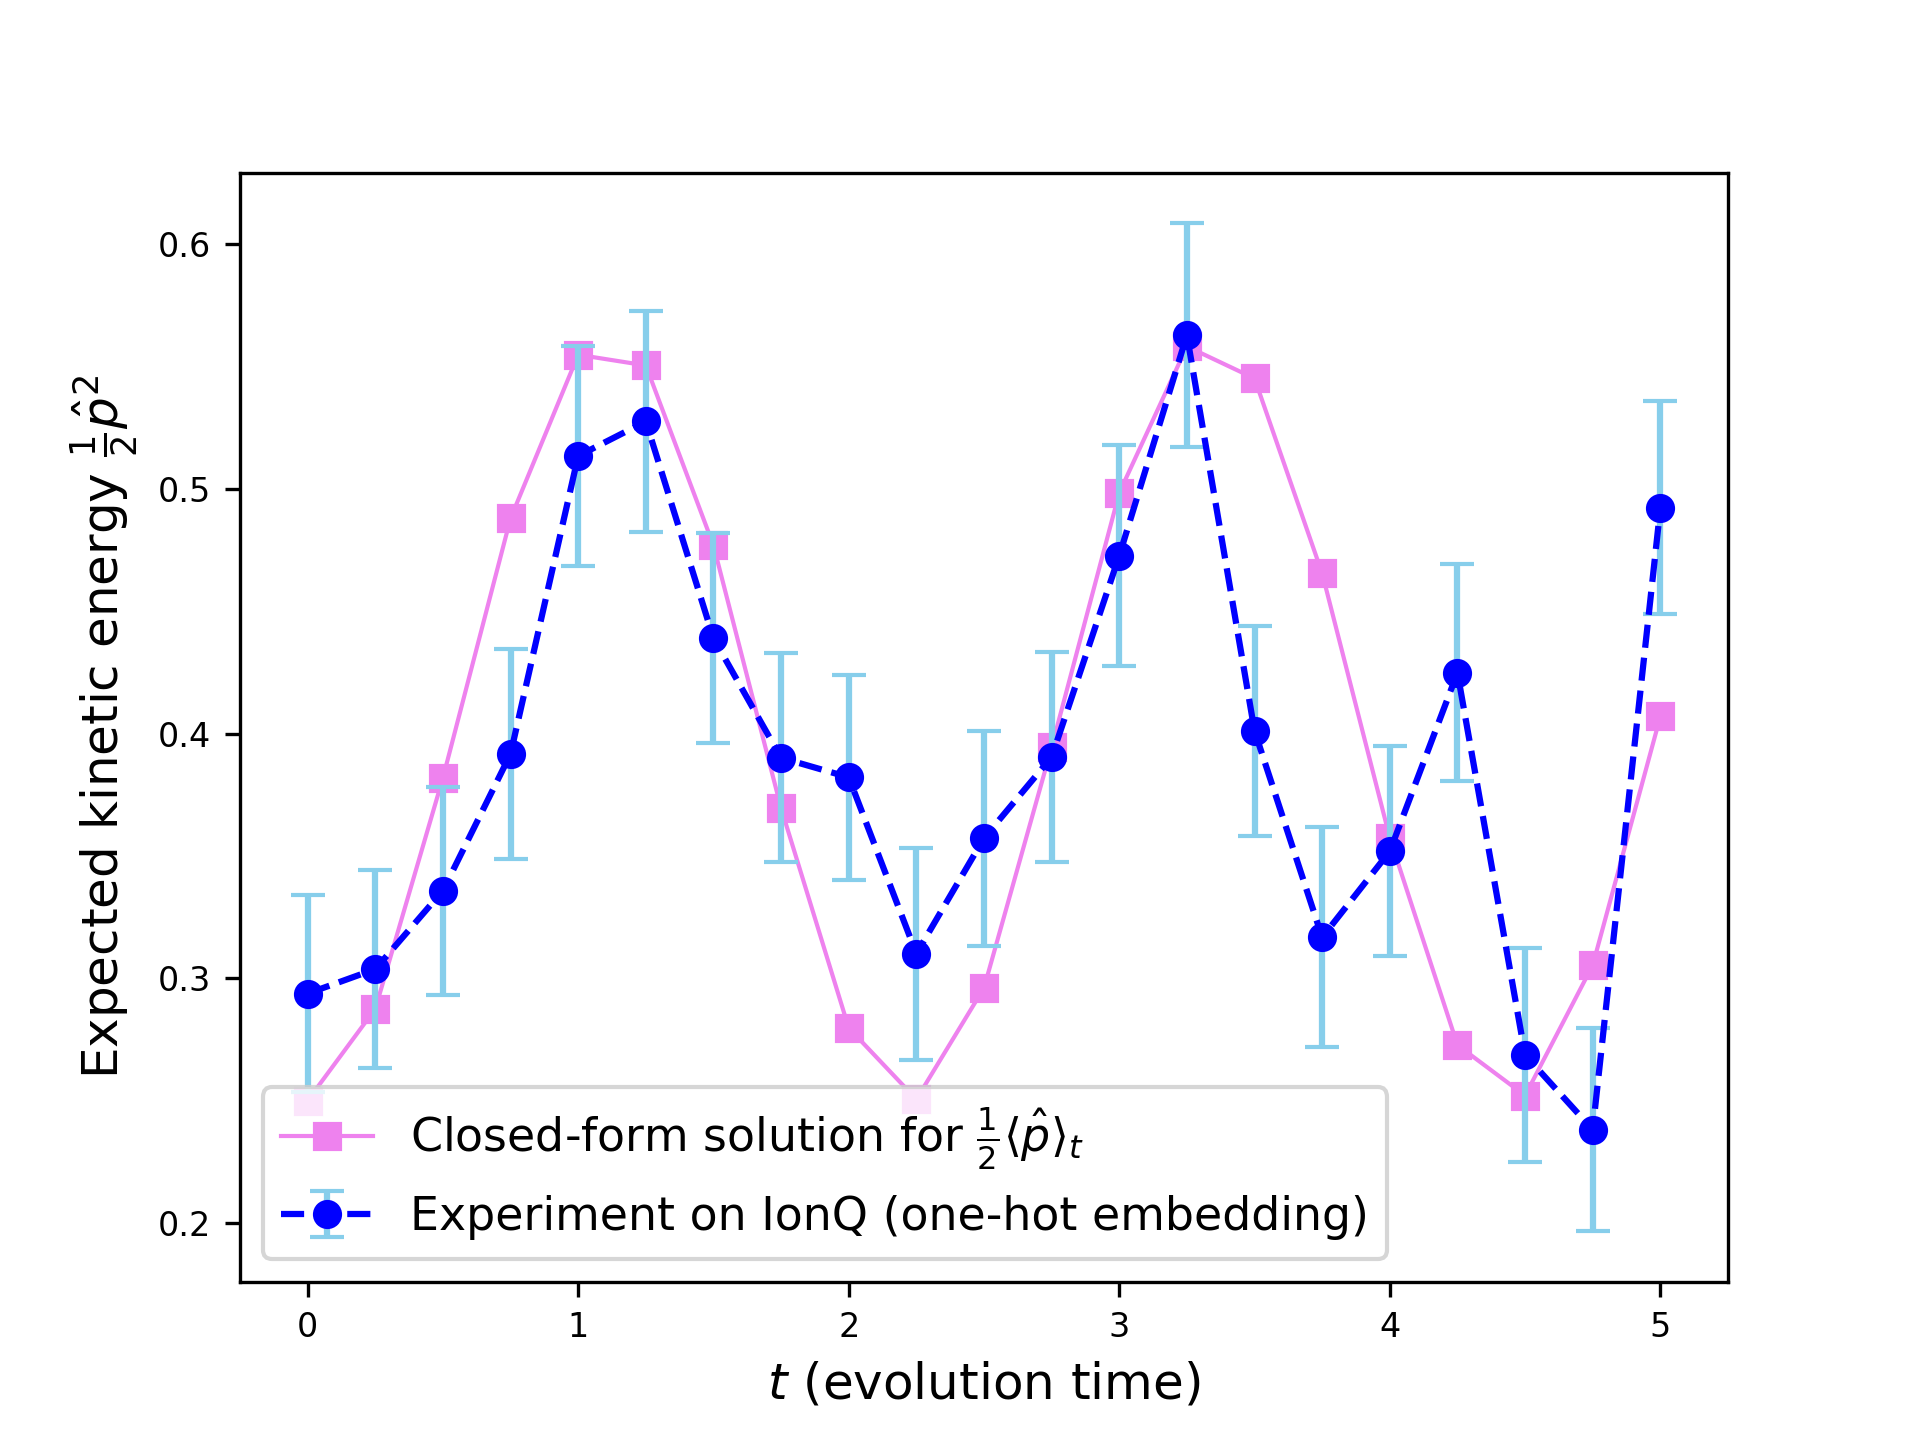
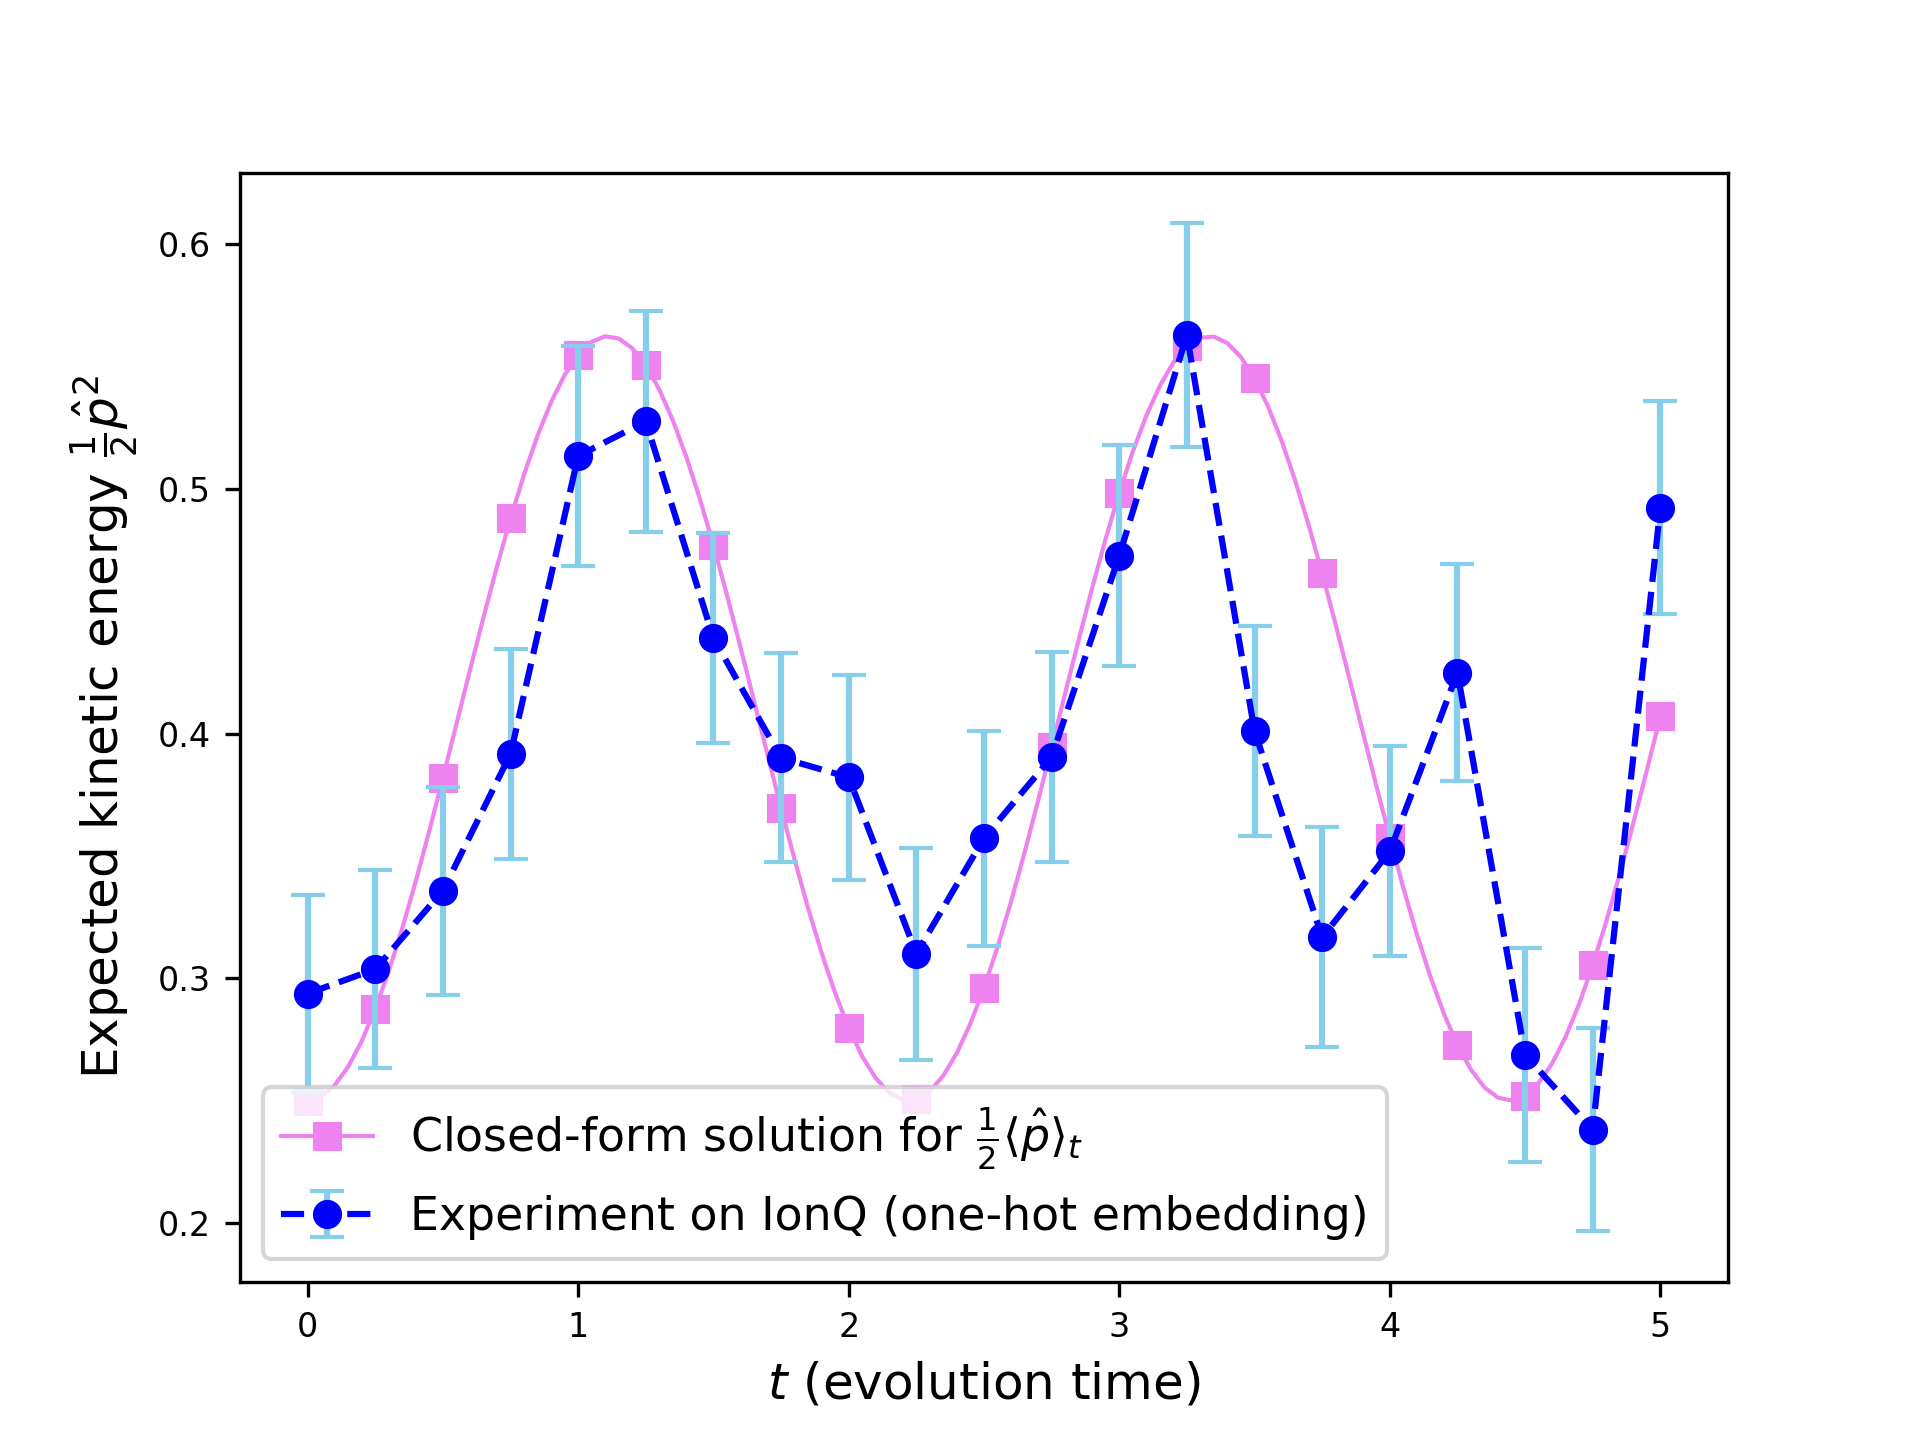
update figure

diff --git a/real_space_sim/IonQ/plot_ionq_kinetic_energy.py b/real_space_sim/IonQ/plot_ionq_kinetic_energy.py
@@ -15,16 +15,23 @@ a = 2
 b = -1/2
 num_time_points = 21
 t_vals = np.linspace(0, T, num_time_points)
-analytical_exp_x_sq = 5/16 * np.cos(np.sqrt(a) * t_vals)**2 - 0.125 * np.cos(np.sqrt(a) * t_vals) + 5/16
-analytical_exp_x = (b/a) * (np.cos(np.sqrt(a) * t_vals) - 1)
-kinetic_energy_analytical = (1+a)/4 - (0.5 * a * analytical_exp_x_sq + b * analytical_exp_x)
+# analytical_exp_x_sq = 5/16 * np.cos(np.sqrt(a) * t_vals)**2 - 0.125 * np.cos(np.sqrt(a) * t_vals) + 5/16
+# analytical_exp_x = (b/a) * (np.cos(np.sqrt(a) * t_vals) - 1)
+# kinetic_energy_analytical = (1+a)/4 - (0.5 * a * analytical_exp_x_sq + b * analytical_exp_x)
+
+# Plot with higher resolution
+plot_every = 5
+t_vals_high_res = np.linspace(0, T, (num_time_points - 1) * plot_every + 1)
+analytical_exp_x_sq_high_res = 5/16 * np.cos(np.sqrt(a) * t_vals_high_res)**2 - 0.125 * np.cos(np.sqrt(a) * t_vals_high_res) + 5/16
+analytical_exp_x_high_res = (b/a) * (np.cos(np.sqrt(a) * t_vals_high_res) - 1)
+kinetic_energy_analytical_high_res = (1+a)/4 - (0.5 * a * analytical_exp_x_sq_high_res + b * analytical_exp_x_high_res)
 
 #fig = plt.figure(figsize=(100/25.4, 100/25.4), dpi=300)
 # figure setup
 # plt.rcParams['font.family'] = 'Helvetica'
-
 plt.figure()
-plt.plot(t_vals, kinetic_energy_analytical, '-s', color="violet", label="Closed-form solution for " + r"$\frac{1}{2}\langle\hat{p}\rangle_t$", linewidth=1)
+# plt.plot(t_vals, kinetic_energy_analytical, 's-', color="violet", )
+plt.plot(t_vals_high_res, kinetic_energy_analytical_high_res, 's-', markevery=range(num_time_points * plot_every)[::plot_every], color="violet", linewidth=1, label="Closed-form solution for " + r"$\frac{1}{2}\langle\hat{p}\rangle_t$")
 # plt.plot(t_vals, ideal_data, '-o', color="violet", label="Hamiltonian embedding")
 # plt.plot(t_vals, ideal_data, 'ro', label="Numerical simulation (5-level subsystem)", markersize=5)
 plt.errorbar(t_vals, ionq_data, ionq_err, fmt='--o', color='blue', ecolor='skyblue', label="Experiment on IonQ (one-hot embedding)", capsize=4)
